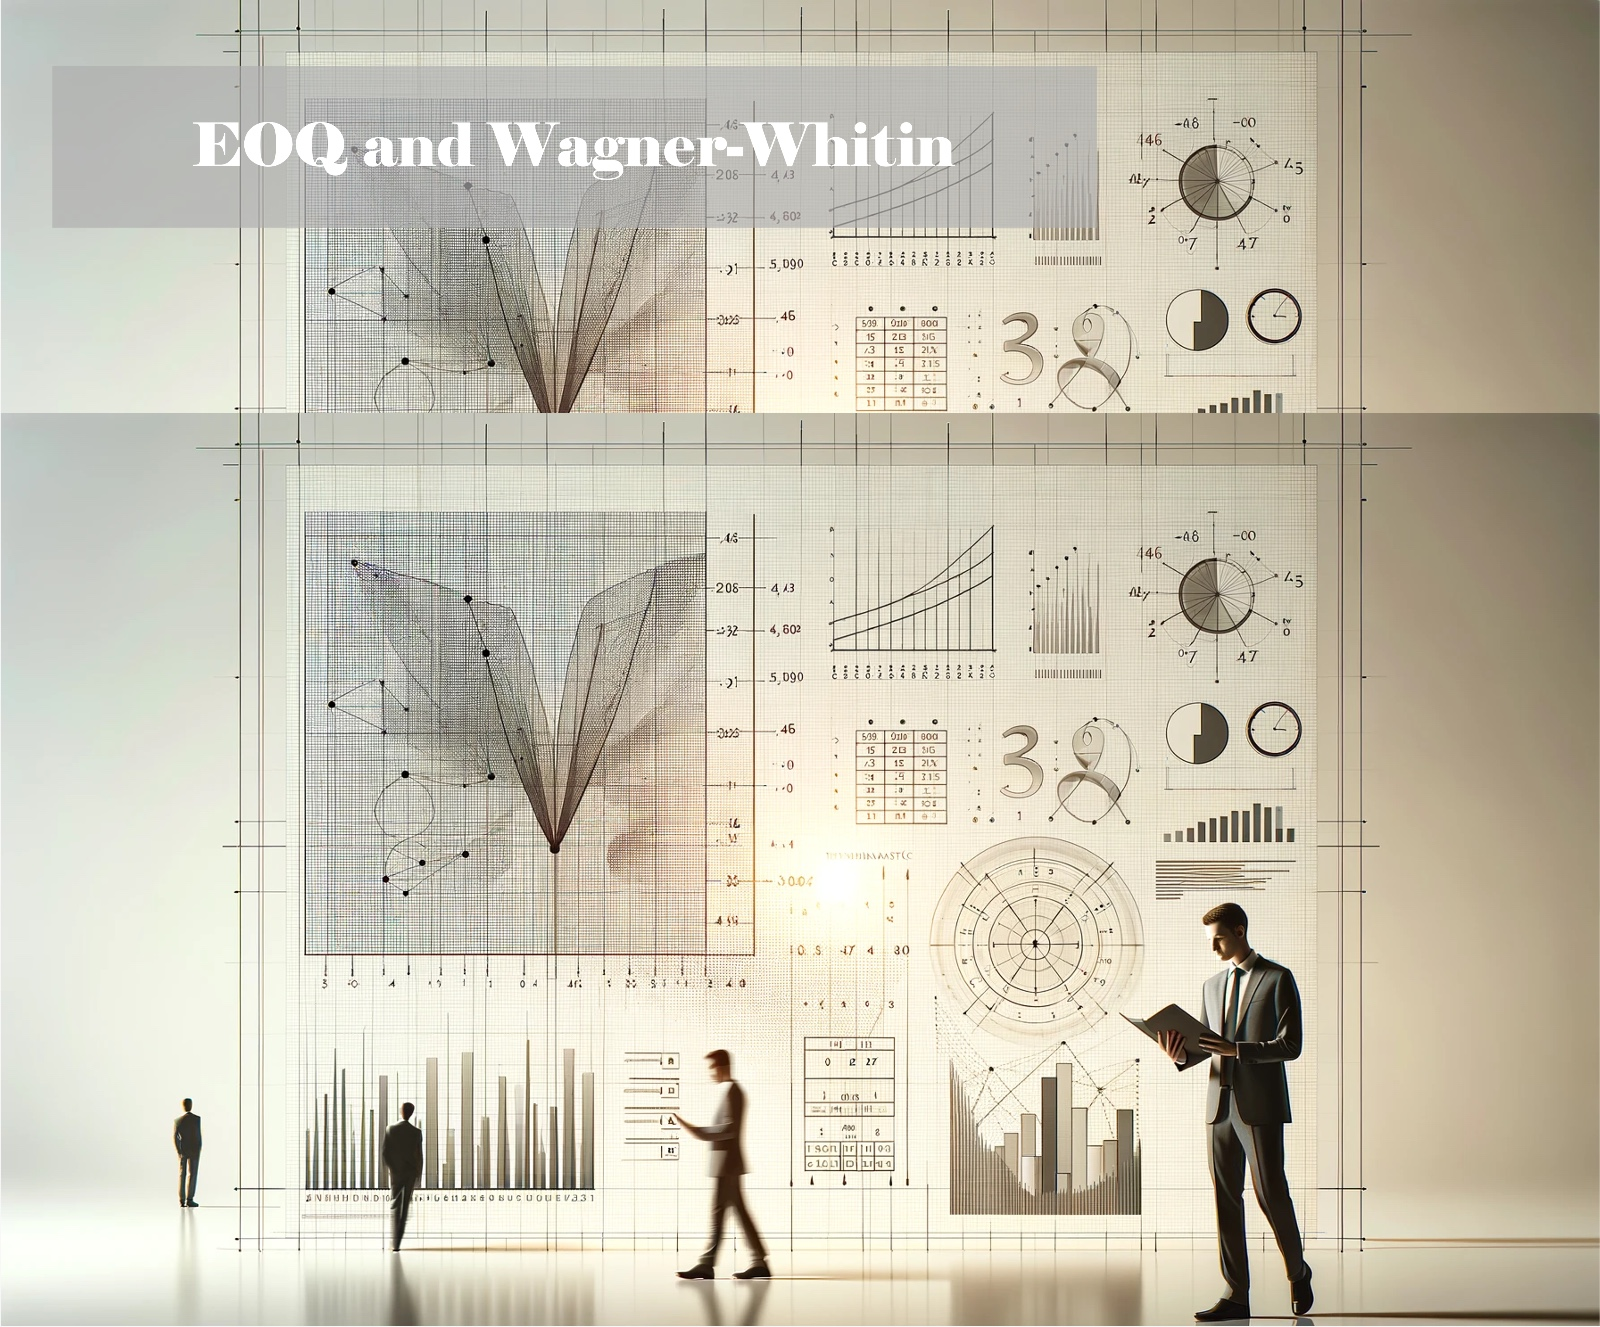
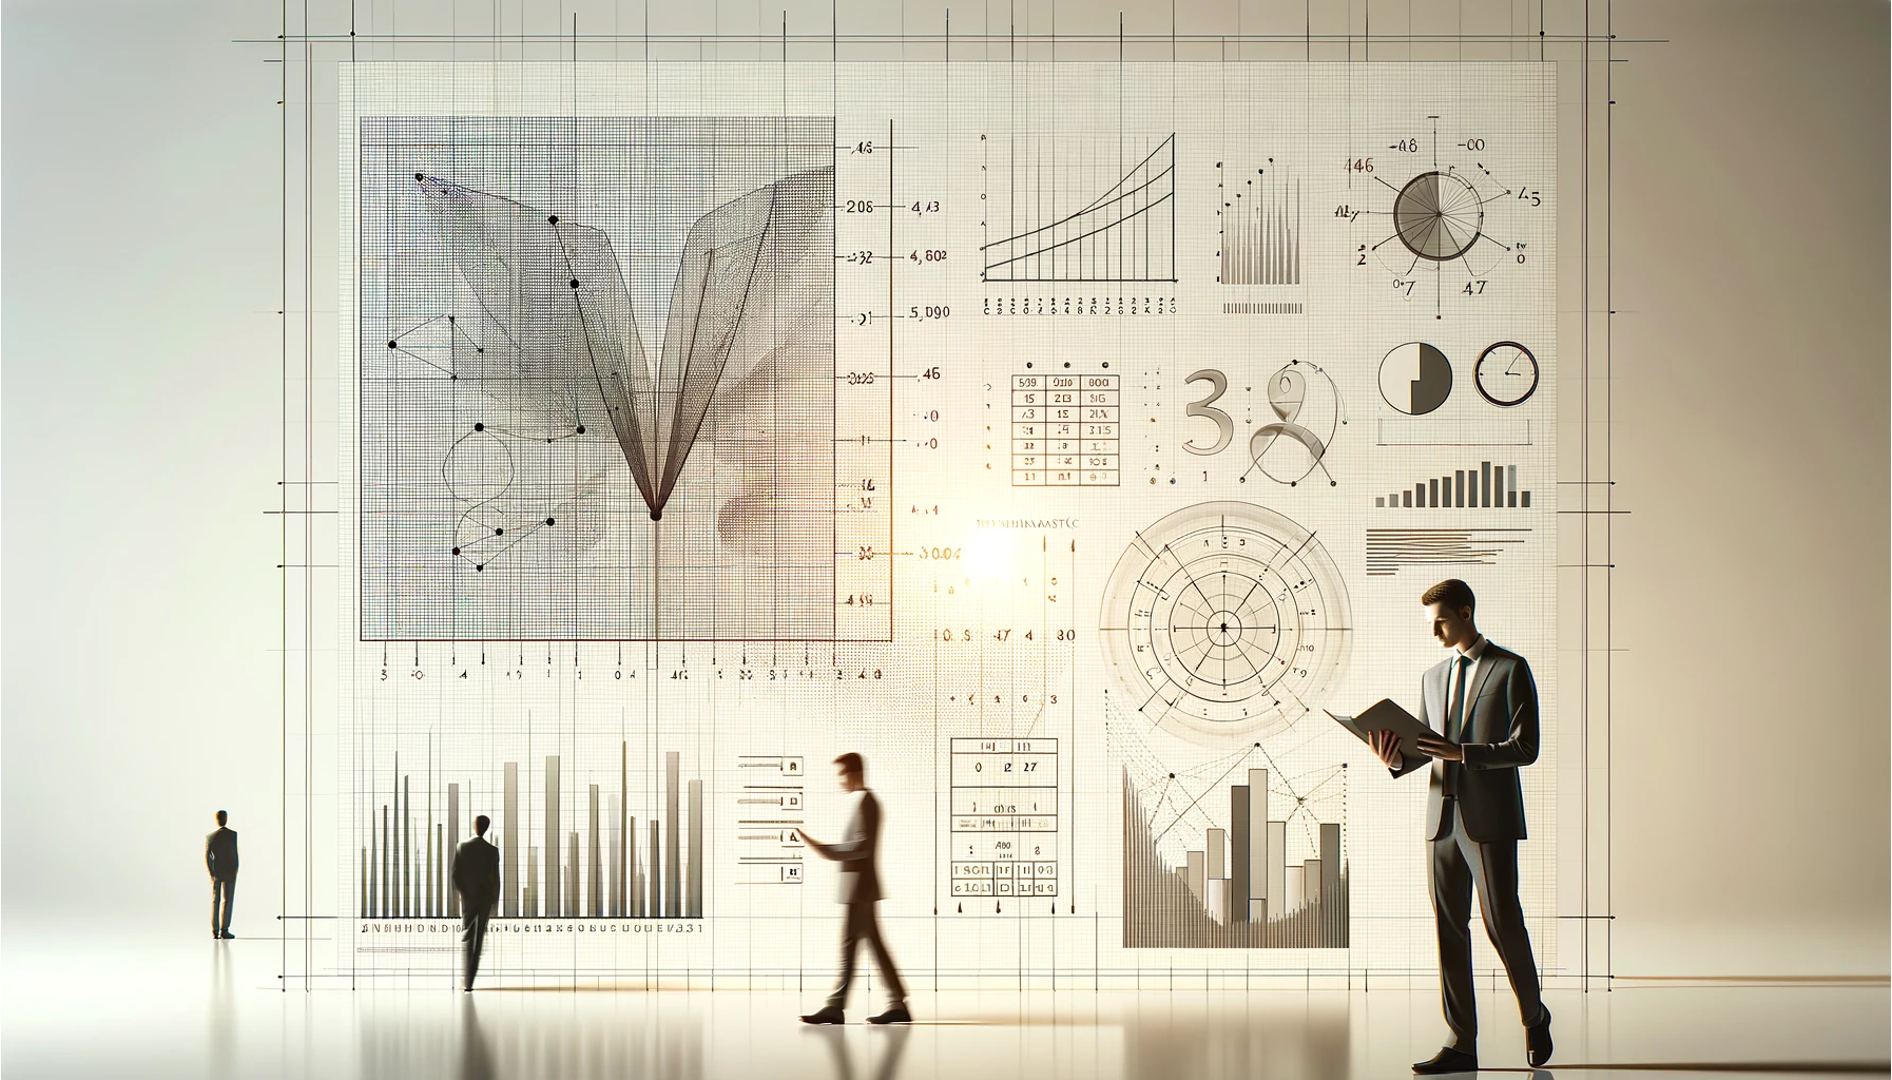
Change Homepage background

diff --git a/reactdeterministicmodelslotsizing/reactdeterministicmodelslotsizing/src/views/Homepage.js b/reactdeterministicmodelslotsizing/reactdeterministicmodelslotsizing/src/views/Homepage.js
@@ -2,17 +2,16 @@ import React from "react";
 // react-bootstrap components
 import { Card, Container, Row, Col } from "react-bootstrap";
 
-import costImg from "../assets/img/cost.png";
 import cartoonMan from "../assets/img/cartoonMan.png";
 import header from "../assets/img/Header.png";
 
 function Homepage() {
   const pageBackgroundStyle = {
     backgroundImage: `url(${header})`,
-    backgroundSize: "100% auto",
-    backgroundPosition: "top center",
+    backgroundSize: "cover",
+    backgroundPosition: "center center", 
     backgroundRepeat: "no-repeat",
-    minHeight: "100vh",
+    //minHeight: "100vh",
     width: "100%",
   };
 
@@ -157,18 +156,7 @@ function Homepage() {
             </Card>
           </Col>
         </Row>
-        <Row
-          className="justify-content-center align-items-center"
-          style={{ marginTop: "15vh" }}
-        >
-          <img
-            src={costImg}
-            width="40%"
-            height="auto"
-            alt="Centered Image"
-            style={{ maxWidth: "100%", maxHeight: "100%" }}
-          />
-        </Row>
+       
       </Container>
     </>
   );

diff --git a/reactdeterministicmodelslotsizing/reactdeterministicmodelslotsizing/src/views/EOQ.js b/reactdeterministicmodelslotsizing/reactdeterministicmodelslotsizing/src/views/EOQ.js
@@ -3,6 +3,7 @@ import { Button, Card, Container, Row, Col, Form } from "react-bootstrap";
 import eoqService from "../services/eoq.service";
 import * as XLSX from "xlsx";
 import Template from "../assets/xlsx/1Import_Deterministic_Models.xlsx"; // Import the Excel file
+import costImg from "../assets/img/cost.png";
 
 // EOQ component
 export default class EOQ extends Component {
@@ -315,6 +316,18 @@ export default class EOQ extends Component {
                   </Form>
                 </Card.Body>
               </Card>
+              <Row
+                      className="justify-content-center align-items-center"
+                      style={{ marginTop: "5vh" }}
+                    >
+                      <img
+                        src={costImg}
+                        width="40%"
+                        height="auto"
+                        alt="Centered Image"
+                        style={{ maxWidth: "100%", maxHeight: "100%" }}
+                      />
+                    </Row>
             </Col>
           </Row>
         </Container>

diff --git a/reactdeterministicmodelslotsizing/reactdeterministicmodelslotsizing/src/views/Proposal.js b/reactdeterministicmodelslotsizing/reactdeterministicmodelslotsizing/src/views/Proposal.js
@@ -58,6 +58,7 @@ const Proposal = () => {
               </p>
             </Col>
           </Row>
+          
         </Card.Body>
       </Card>
     </Container>
